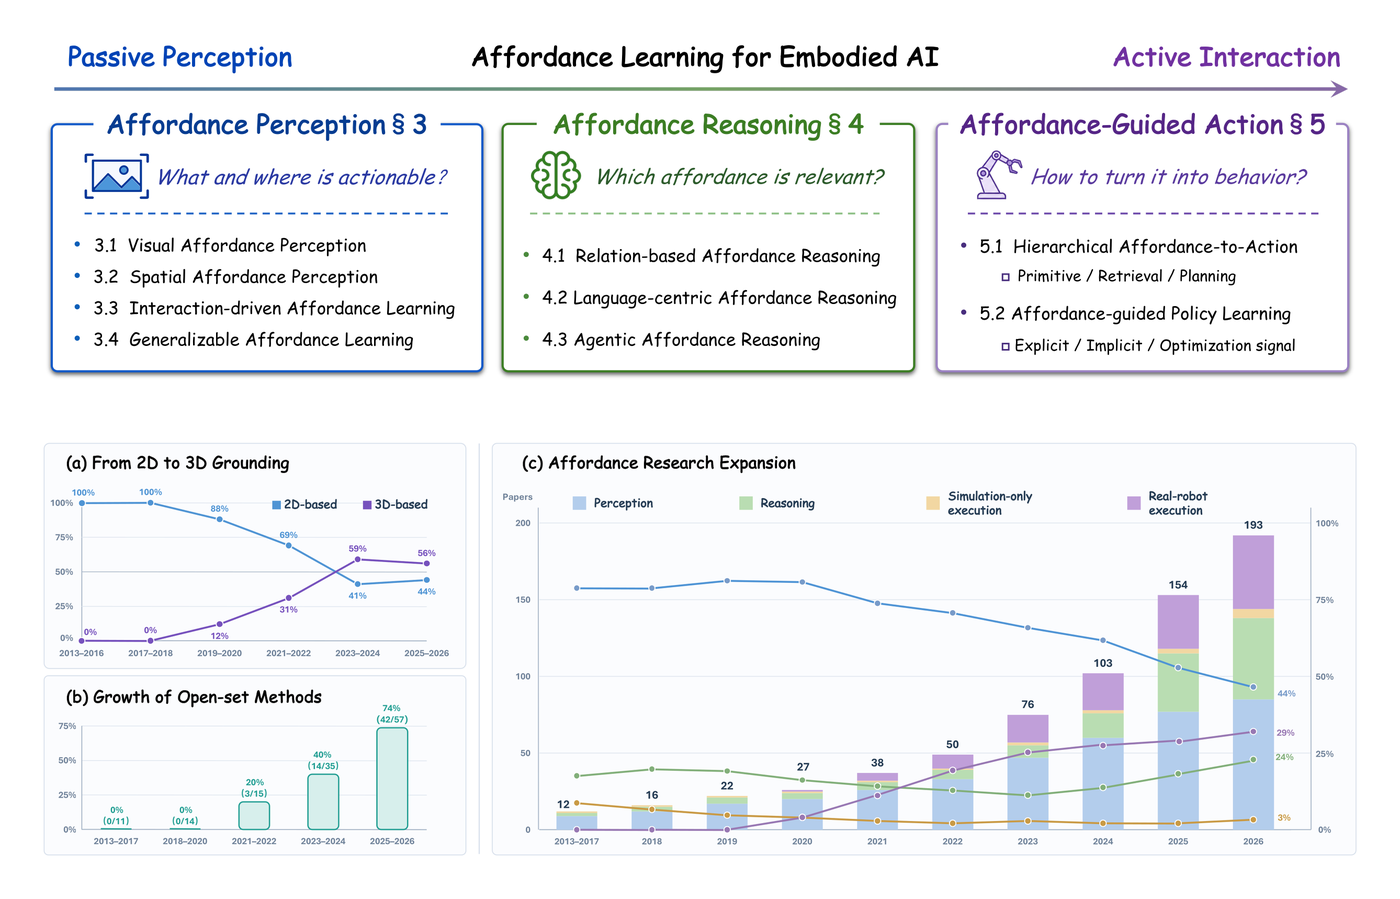
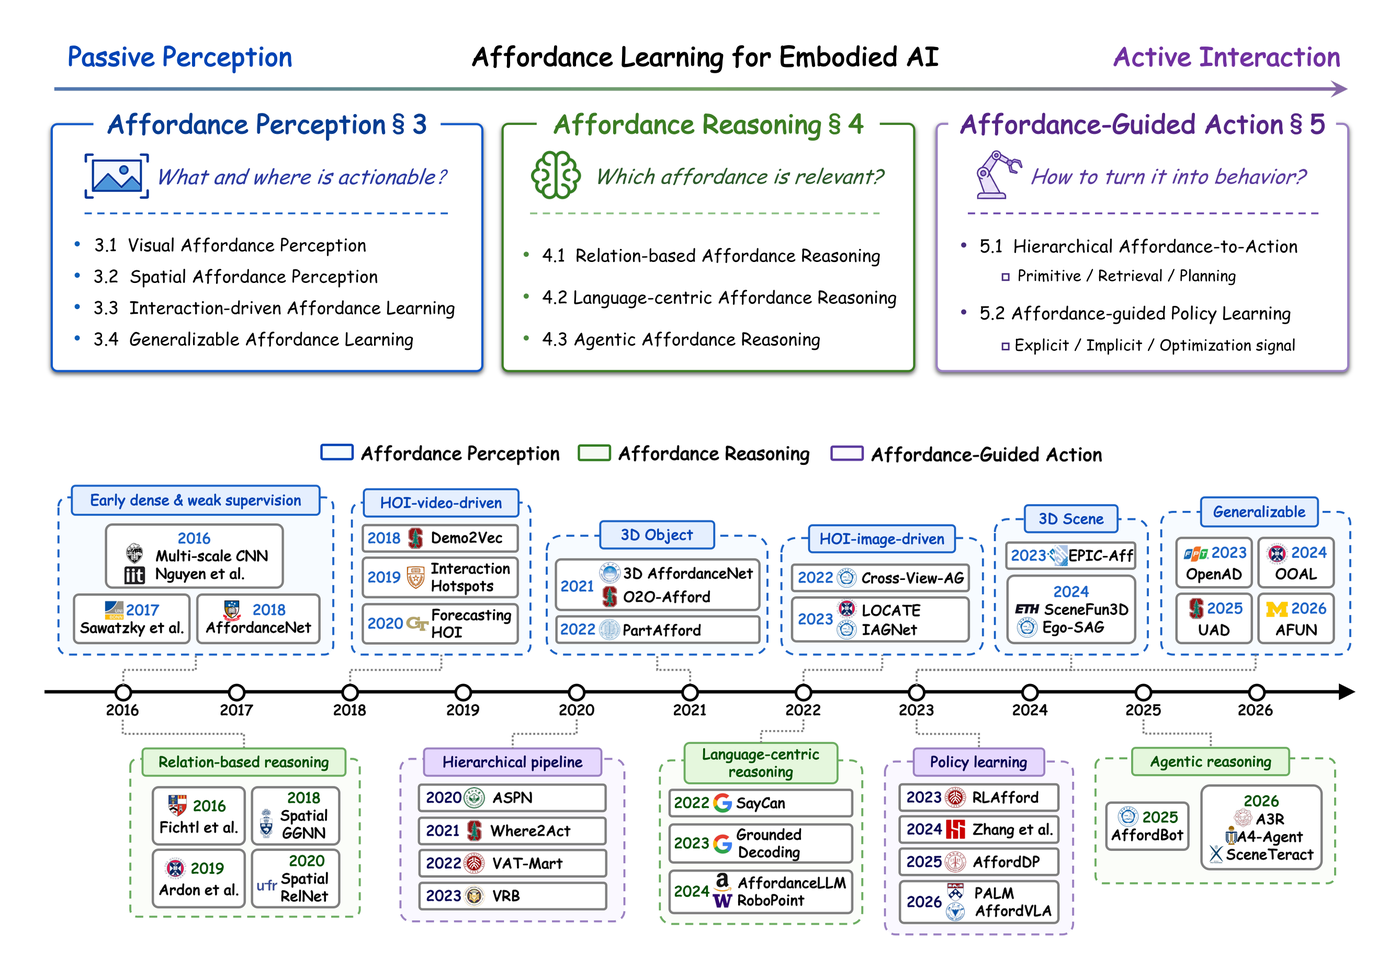
Publications: affordance teaser = overview + timeline; MARS Policy above TF-ART
- teaser_affordance.png rebuilt from the framework overview and the
  2016-2026 timeline figure (?v=2)
- Order: affordance survey, MARS Policy, TF-ART survey, CompassAD, ADAPT,
  FWM, A2A

Changed region(s): [[0.0307, 0.0311, 0.9829, 0.9655]]

diff --git a/index.html b/index.html
@@ -168,7 +168,7 @@
       <h2>Publications</h2>
 
       <article class="pub">
-        <img class="pub-teaser" src="assets/teaser_affordance.png?v=1" alt="Affordance survey overview and research trends" />
+        <img class="pub-teaser" src="assets/teaser_affordance.png?v=2" alt="Affordance survey overview and research trends" />
         <div class="pub-body">
           <div class="pub-venue venue--gray">Under Review</div>
           <h3 class="pub-title">From Passive Perception to Active Interaction: A Survey of Affordance Learning for Embodied AI</h3>
@@ -196,6 +196,33 @@
             <a class="btn" href="https://jingliangli.com/affordance-survey/" target="_blank" rel="noopener"><svg viewBox="0 0 24 24" fill="none" stroke="currentColor" stroke-width="1.7" stroke-linecap="round" stroke-linejoin="round" aria-hidden="true"><circle cx="12" cy="12" r="9"/><path d="M3 12h18"/><path d="M12 3a14 14 0 0 1 0 18 14 14 0 0 1 0-18z"/></svg>Website</a>
             <a class="btn" href="https://www.preprints.org/manuscript/202610.0392" target="_blank" rel="noopener"><svg viewBox="0 0 24 24" fill="none" stroke="currentColor" stroke-width="1.7" stroke-linecap="round" stroke-linejoin="round" aria-hidden="true"><path d="M14 3H7a2 2 0 0 0-2 2v14a2 2 0 0 0 2 2h10a2 2 0 0 0 2-2V8z"/><path d="M14 3v5h5"/><path d="M9 13h6"/><path d="M9 17h6"/></svg>Paper</a>
             <a class="btn" href="https://github.com/hq-King/Awesome-Affordance-Learning" target="_blank" rel="noopener"><svg viewBox="0 0 24 24" fill="none" stroke="currentColor" stroke-width="1.7" stroke-linecap="round" stroke-linejoin="round" aria-hidden="true"><path d="m8 6-6 6 6 6"/><path d="m16 6 6 6-6 6"/></svg>Awesome List</a>
+          </p>
+        </div>
+      </article>
+
+      <article class="pub">
+        <div class="pub-teaser pub-teaser--video" style="aspect-ratio: 893 / 441" data-video="assets/mars_video.mp4?v=13">
+          <img class="teaser-still" src="assets/teaser_mars.png?v=13" alt="MARS Policy teaser" />
+          <video class="teaser-video" preload="none" playsinline loop muted></video>
+        </div>
+        <div class="pub-body">
+          <div class="pub-venue venue--gray">Under Review</div>
+          <h3 class="pub-title">MARS Policy: Multimodality Only When It Matters</h3>
+          <p class="pub-authors">
+            <a href="https://jiajindou.github.io/" target="_blank" rel="noopener">Jindou Jia</a>,
+            <a href="https://morpheus-an.github.io/" target="_blank" rel="noopener">Tuo An</a>,
+            Yuxuan Hu,
+            <a href="https://reagan1311.github.io/" target="_blank" rel="noopener">Gen Li</a>,
+            <a href="https://jingliangli.com/">Jingliang Li</a>,
+            <a href="https://hbhalpha.github.io/" target="_blank" rel="noopener">Bohan Hou</a>,
+            <a href="https://xyc0212.github.io/" target="_blank" rel="noopener">Xiangyu Chen</a>,
+            Jiaqi Bai, Bofan Lyu,
+            <a href="https://marsyang.site/" target="_blank" rel="noopener">Jianfei Yang</a>
+          </p>
+          <p class="pub-links">
+            <a class="btn" href="https://jingliangli.com/MARS_Policy/" target="_blank" rel="noopener"><svg viewBox="0 0 24 24" fill="none" stroke="currentColor" stroke-width="1.7" stroke-linecap="round" stroke-linejoin="round" aria-hidden="true"><circle cx="12" cy="12" r="9"/><path d="M3 12h18"/><path d="M12 3a14 14 0 0 1 0 18 14 14 0 0 1 0-18z"/></svg>Website</a>
+            <a class="btn" href="https://arxiv.org/pdf/2605.29766" target="_blank" rel="noopener"><svg viewBox="0 0 24 24" fill="none" stroke="currentColor" stroke-width="1.7" stroke-linecap="round" stroke-linejoin="round" aria-hidden="true"><path d="M12 3v12"/><path d="m7 11 5 5 5-5"/><path d="M5 21h14"/></svg>PDF</a>
+            <a class="btn" href="https://arxiv.org/abs/2605.29766" target="_blank" rel="noopener"><svg viewBox="0 0 24 24" fill="none" stroke="currentColor" stroke-width="1.7" stroke-linecap="round" stroke-linejoin="round" aria-hidden="true"><path d="M14 3H7a2 2 0 0 0-2 2v14a2 2 0 0 0 2 2h10a2 2 0 0 0 2-2V8z"/><path d="M14 3v5h5"/><path d="M9 13h6"/><path d="M9 17h6"/></svg>arXiv</a>
           </p>
         </div>
       </article>
@@ -241,33 +268,6 @@
             <a class="btn" href="https://arxiv.org/pdf/2608.07558" target="_blank" rel="noopener"><svg viewBox="0 0 24 24" fill="none" stroke="currentColor" stroke-width="1.7" stroke-linecap="round" stroke-linejoin="round" aria-hidden="true"><path d="M12 3v12"/><path d="m7 11 5 5 5-5"/><path d="M5 21h14"/></svg>PDF</a>
             <a class="btn" href="https://arxiv.org/abs/2608.07558" target="_blank" rel="noopener"><svg viewBox="0 0 24 24" fill="none" stroke="currentColor" stroke-width="1.7" stroke-linecap="round" stroke-linejoin="round" aria-hidden="true"><path d="M14 3H7a2 2 0 0 0-2 2v14a2 2 0 0 0 2 2h10a2 2 0 0 0 2-2V8z"/><path d="M14 3v5h5"/><path d="M9 13h6"/><path d="M9 17h6"/></svg>arXiv</a>
             <a class="btn" href="https://github.com/NTUMARS/Awesome-Tactile-Force-aware-Robot-Learning" target="_blank" rel="noopener"><svg viewBox="0 0 24 24" fill="none" stroke="currentColor" stroke-width="1.7" stroke-linecap="round" stroke-linejoin="round" aria-hidden="true"><path d="m8 6-6 6 6 6"/><path d="m16 6 6 6-6 6"/></svg>Awesome List</a>
-          </p>
-        </div>
-      </article>
-
-      <article class="pub">
-        <div class="pub-teaser pub-teaser--video" style="aspect-ratio: 893 / 441" data-video="assets/mars_video.mp4?v=13">
-          <img class="teaser-still" src="assets/teaser_mars.png?v=13" alt="MARS Policy teaser" />
-          <video class="teaser-video" preload="none" playsinline loop muted></video>
-        </div>
-        <div class="pub-body">
-          <div class="pub-venue venue--gray">Under Review</div>
-          <h3 class="pub-title">MARS Policy: Multimodality Only When It Matters</h3>
-          <p class="pub-authors">
-            <a href="https://jiajindou.github.io/" target="_blank" rel="noopener">Jindou Jia</a>,
-            <a href="https://morpheus-an.github.io/" target="_blank" rel="noopener">Tuo An</a>,
-            Yuxuan Hu,
-            <a href="https://reagan1311.github.io/" target="_blank" rel="noopener">Gen Li</a>,
-            <a href="https://jingliangli.com/">Jingliang Li</a>,
-            <a href="https://hbhalpha.github.io/" target="_blank" rel="noopener">Bohan Hou</a>,
-            <a href="https://xyc0212.github.io/" target="_blank" rel="noopener">Xiangyu Chen</a>,
-            Jiaqi Bai, Bofan Lyu,
-            <a href="https://marsyang.site/" target="_blank" rel="noopener">Jianfei Yang</a>
-          </p>
-          <p class="pub-links">
-            <a class="btn" href="https://jingliangli.com/MARS_Policy/" target="_blank" rel="noopener"><svg viewBox="0 0 24 24" fill="none" stroke="currentColor" stroke-width="1.7" stroke-linecap="round" stroke-linejoin="round" aria-hidden="true"><circle cx="12" cy="12" r="9"/><path d="M3 12h18"/><path d="M12 3a14 14 0 0 1 0 18 14 14 0 0 1 0-18z"/></svg>Website</a>
-            <a class="btn" href="https://arxiv.org/pdf/2605.29766" target="_blank" rel="noopener"><svg viewBox="0 0 24 24" fill="none" stroke="currentColor" stroke-width="1.7" stroke-linecap="round" stroke-linejoin="round" aria-hidden="true"><path d="M12 3v12"/><path d="m7 11 5 5 5-5"/><path d="M5 21h14"/></svg>PDF</a>
-            <a class="btn" href="https://arxiv.org/abs/2605.29766" target="_blank" rel="noopener"><svg viewBox="0 0 24 24" fill="none" stroke="currentColor" stroke-width="1.7" stroke-linecap="round" stroke-linejoin="round" aria-hidden="true"><path d="M14 3H7a2 2 0 0 0-2 2v14a2 2 0 0 0 2 2h10a2 2 0 0 0 2-2V8z"/><path d="M14 3v5h5"/><path d="M9 13h6"/><path d="M9 17h6"/></svg>arXiv</a>
           </p>
         </div>
       </article>
